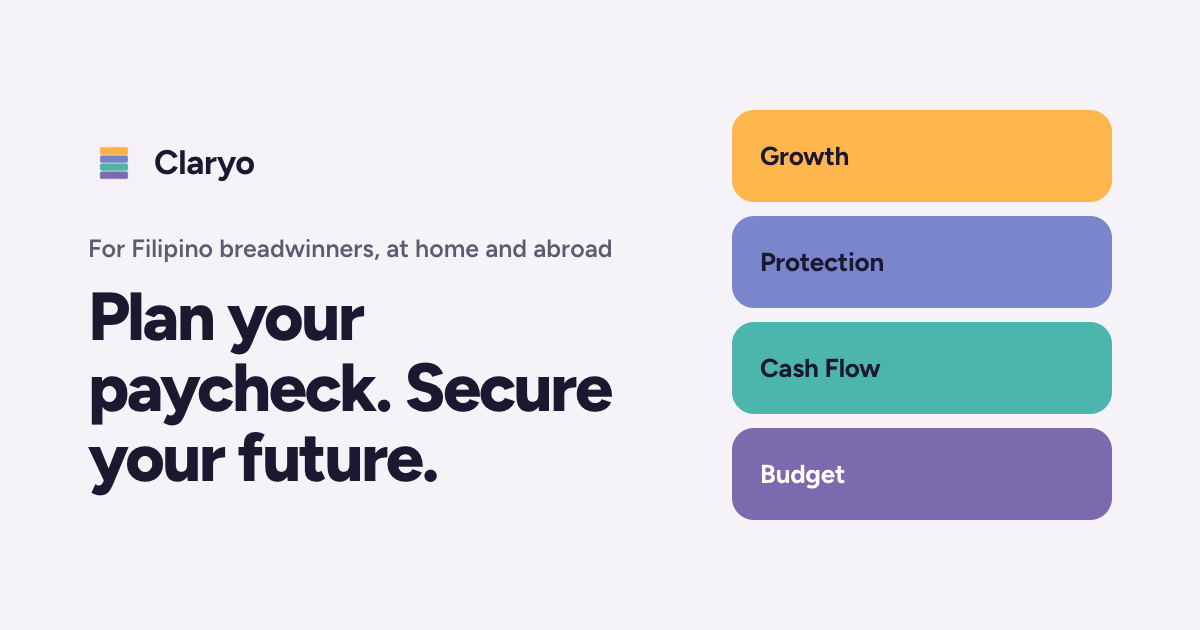
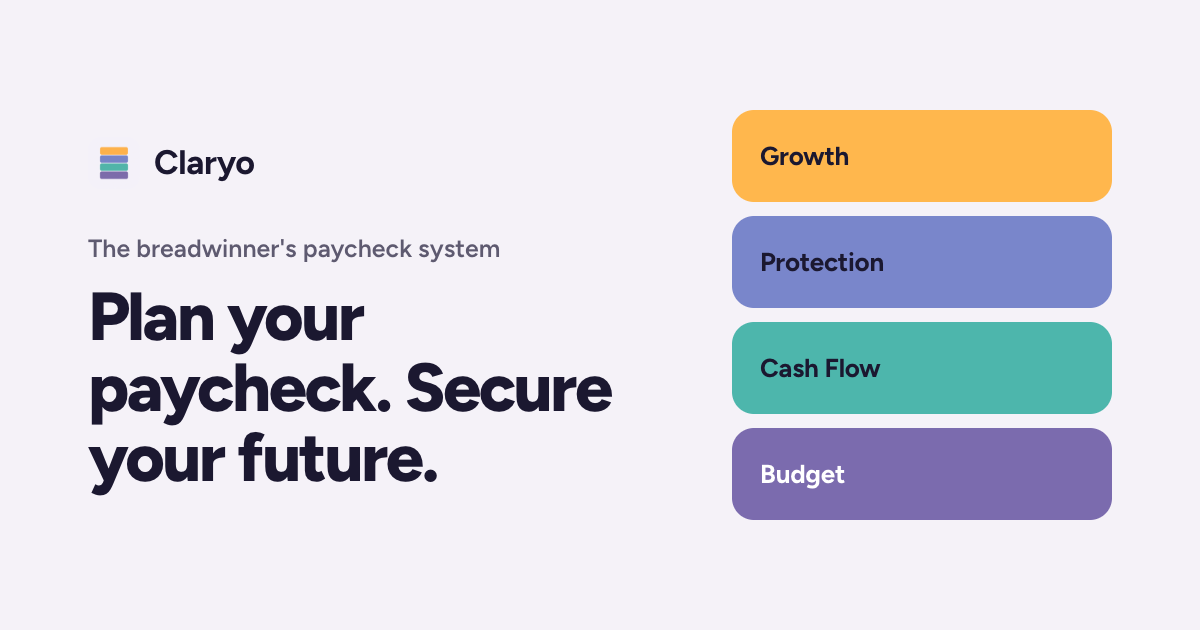
Revamp notification styles and update Open Graph description: enhance the .notify class with new layout and design elements, and modify the eyebrow text in og-image.html for improved clarity and branding.

Changed region(s): [[0.0617, 0.3619, 0.5242, 0.4222]]

diff --git a/index.html b/index.html
@@ -126,9 +126,20 @@
   }
   .lead { font-size: 1.1875rem; color: var(--muted); max-width: 36em; }
   /* The launch list: a quiet text link, never a filled button (house-rules: no filled button outside a form). */
-  .notify { margin-top: 28px; font-size: 1.0625rem; font-weight: 600; }
-  .notify a { color: var(--ink); text-decoration: underline; text-underline-offset: 4px; }
-  @media (max-width: 879px) { .notify a { display: inline-block; padding: 9px 0; margin: -9px 0; } }
+  /* The launch list (Story L.9, idea 20): a door, not a button. The card recipe at a 72px pill's radius
+     (panelCornerRadius caps at 30% of its height), a Budget-purple glyph chip (purple takes white ink),
+     what you get in muted, a caret. design-refs/good-job-18.png: a door carries its caret. */
+  .notify { display: inline-flex; align-items: center; gap: 14px; max-width: 100%; margin-top: 32px; padding: 14px 20px 14px 14px;
+            background: var(--card); border: 1px solid var(--edge); border-radius: 22px; color: var(--ink); text-decoration: none;
+            box-shadow: 0 3px 12px rgba(0, 0, 0, 0.11), 0 10px 33px rgba(0, 0, 0, 0.055); transition: box-shadow 150ms var(--out); }
+  .notify:hover { box-shadow: 0 4px 16px rgba(0, 0, 0, 0.14), 0 14px 40px rgba(0, 0, 0, 0.08); }
+  .notify:focus-visible { outline: 2px solid var(--purple); outline-offset: 3px; }
+  .notify .nchip { flex: none; width: 44px; height: 44px; border-radius: 13.6px; background: var(--purple); color: #fff; display: grid; place-items: center; }
+  .notify .nchip svg { width: 22px; height: 22px; fill: currentColor; }
+  .notify .nw { display: grid; gap: 2px; min-width: 0; }
+  .notify .nw b { font-weight: 700; font-size: 1.0625rem; line-height: 1.3; letter-spacing: -0.01em; }
+  .notify .nw span { font-size: 0.9375rem; line-height: 1.35; color: var(--muted); }
+  .notify .ncar { flex: none; width: 18px; height: 18px; margin-left: 4px; fill: var(--muted); }
   /* The stores' official badges, unmodified, at 40 tall; Google's PNG carries 41 of transparent
      padding round a 564x168 badge, so it draws at 59.5 and the padding is pulled back. */
   .stores { display: flex; flex-wrap: wrap; align-items: center; gap: 16px 22px; margin-top: 28px; }
@@ -268,6 +279,15 @@
   .side li .nm small { font-size: 0.75rem; font-weight: 400; color: var(--muted); }
   .side li b { flex: none; font-weight: 600; font-size: 0.875rem; font-variant-numeric: tabular-nums; }
   .past li .nm, .past li b { color: var(--muted); }   /* onSurfaceVariant: the past reads muted */
+  /* The beat's motion (tracker_contrast_beat.dart on the concept clock, arrival_clock.dart: 160 lead-in, 300 pitch,
+     440 span): each part a fade and a 6pt settle, the tracker and its spends, then "vs" with Claryo, then its jobs.
+     Then the tracker dims once Claryo's last job lands (founder, 2026-11-18): a ground veil, 800ms in place.
+     Without motion the veil is simply there: reduce motion shows the final state. */
+  .vs-pair .side { position: relative; }
+  .past .dimmer { position: absolute; inset: -1px; border-radius: 27px; background: var(--ground); opacity: 0.55; pointer-events: none; z-index: 1; }
+  .motion .vs-pair [data-at].in { animation-name: rise; }
+  .motion .past .dimmer[data-at].in { animation: dim 800ms cubic-bezier(0.645, 0.045, 0.355, 1) both; }   /* easeInOutCubic */
+  @keyframes dim { from { opacity: 0; } to { opacity: 0.55; } }
   .vs { justify-self: center; align-self: center; width: 32px; height: 32px; border-radius: 50%; display: grid; place-items: center; background: var(--card); border: 1px solid #CAC4D0; font-size: 0.75rem; font-weight: 700; line-height: 1; color: var(--muted); }
   @media (min-width: 560px) { .vs-pair { grid-template-columns: minmax(0, 1fr) auto minmax(0, 1fr); } }
 
@@ -913,7 +933,7 @@
 
 <svg width="0" height="0" style="position:absolute" aria-hidden="true" focusable="false">
 <!-- Phosphor glyphs (MIT), the outlines the app draws; a duotone layer at 0.2, as PhosphorIcon draws it. -->
-<symbol id="g-receipt" viewBox="0 0 1024 1024"><path d="M288 416Q288 403 297.5 393.5Q307 384 320 384H704Q717 384 726.5 393.5Q736 403 736 416Q736 429 726.5 438.5Q717 448 704 448H320Q307 448 297.5 438.5Q288 429 288 416ZM320 576H704Q717 576 726.5 566.5Q736 557 736 544Q736 531 726.5 521.5Q717 512 704 512H320Q307 512 297.5 521.5Q288 531 288 544Q288 557 297.5 566.5Q307 576 320 576ZM928 224V832Q928 845 918.5 854.5Q909 864 896 864Q892 864 888.5 863Q885 862 881 861H882L768 804L654 861Q651 862 647.5 863Q644 864 640 864Q636 864 632.5 863Q629 862 625 861H626L512 804L398 861Q395 862 391.5 863Q388 864 384 864Q380 864 376.5 863Q373 862 369 861H370L256 804L142 861Q139 862 135.5 863Q132 864 128 864Q115 864 105.5 854.5Q96 845 96 832V224Q96 197 114.5 178.5Q133 160 160 160H864Q891 160 909.5 178.5Q928 197 928 224ZM864 224H160V780L242 739Q245 738 248.5 737Q252 736 256 736Q260 736 263.5 737Q267 738 271 739H270L384 796L498 739Q501 738 504.5 737Q508 736 512 736Q516 736 519.5 737Q523 738 527 739H526L640 796L754 739Q757 738 760.5 737Q764 736 768 736Q772 736 775.5 737Q779 738 783 739H782L864 780Z"/></symbol><symbol id="g-save" viewBox="0 0 1024 1024"><path opacity=".2" d="M960 448L960 576Q960 603 941.5 621.5Q923 640 896 640L896 640L864 640L792 843Q788 852 780 858Q772 864 761 864Q761 864 761 864Q761 864 761 864L711 864Q711 864 711 864Q711 864 711 864Q700 864 692 858Q684 852 680 843L680 843L665 800L391 800L376 843Q372 852 364 858Q356 864 345 864Q345 864 345 864Q345 864 345 864L295 864Q295 864 295 864Q295 864 295 864Q284 864 276 858Q268 852 264 843L264 843L212 696Q173 654 150.5 598.5Q128 543 128 480Q128 480 128 480Q128 480 128 480L128 480Q128 414 153 355Q178 297 221.5 253.5Q265 210 323 185Q382 160 448 160L448 160L576 160Q576 160 576 160Q576 160 576 160Q625 160 670 174Q715 188 753 213.5Q791 239 821 274Q850 309 869 351L870 353Q872 359 875 366.5Q878 374 881 382L881 384L896 384Q923 384 941.5 402.5Q960 421 960 448L960 448L960 448Z"/><path d="M768 464Q768 484 754 498Q740 512 720 512Q700 512 686 498Q672 484 672 464Q672 444 686 430Q700 416 720 416L720 416Q740 416 754 430Q768 444 768 464L768 464ZM608 256L448 256Q435 256 425.5 265.5Q416 275 416 288Q416 301 425.5 310.5Q435 320 448 320L448 320L608 320Q621 320 630.5 310.5Q640 301 640 288Q640 275 630.5 265.5Q621 256 608 256L608 256ZM992 448L992 576Q992 616 964 644Q936 672 896 672L896 672L887 672L822 854Q815 872 798.5 884Q782 896 761 896Q761 896 761 896Q761 896 761 896L711 896Q711 896 711 896Q711 896 711 896Q690 896 673.5 884Q657 872 650 854L650 854L643 832L413 832L406 854Q399 872 382.5 884Q366 896 345 896Q345 896 345 896Q345 896 345 896L295 896Q295 896 295 896Q295 896 295 896Q274 896 257.5 884Q241 872 234 854L234 854L184 713Q149 674 127 625Q105 576 98 521L98 519Q83 528 73.5 543Q64 558 64 576L64 576Q64 589 54.5 598.5Q45 608 32 608Q19 608 9.5 598.5Q0 589 0 576L0 576Q0 531 27.5 497Q55 463 96 452L97 452Q103 384 132 325Q162 266 209 222Q256 178 317 153Q379 128 448 128L864 128Q877 128 886.5 137.5Q896 147 896 160Q896 173 886.5 182.5Q877 192 864 192L864 192L778 192Q818 220 848.5 257Q879 294 898 338L899 340Q900 343 901.5 346Q903 349 904 352Q941 355 966.5 382.5Q992 410 992 448Q992 448 992 448Q992 448 992 448L992 448ZM928 448Q928 435 918.5 425.5Q909 416 896 416L896 416L881 416Q881 416 881 416Q881 416 881 416Q871 416 862.5 409.5Q854 403 851 394L851 394Q837 349 810 312Q783 275 747.5 248.5Q712 222 668 207Q624 192 576 192Q576 192 576 192Q576 192 576 192L448 192Q448 192 448 192Q448 192 448 192Q388 192 336 215Q283 237 244 276Q205 315 183 368Q160 420 160 480Q160 536 180.5 586Q201 636 236 675L236 675Q238 677 239.5 679.5Q241 682 242 685L242 685L295 832L345 832L361 789Q364 780 372 774Q380 768 391 768L665 768Q676 768 684 774Q692 780 695 789L695 789L711 832L761 832L834 629Q837 620 845.5 614Q854 608 864 608L896 608Q909 608 918.5 598.5Q928 589 928 576L928 576L928 448Z"/></symbol>
+<symbol id="g-receipt" viewBox="0 0 1024 1024"><path d="M288 416Q288 403 297.5 393.5Q307 384 320 384H704Q717 384 726.5 393.5Q736 403 736 416Q736 429 726.5 438.5Q717 448 704 448H320Q307 448 297.5 438.5Q288 429 288 416ZM320 576H704Q717 576 726.5 566.5Q736 557 736 544Q736 531 726.5 521.5Q717 512 704 512H320Q307 512 297.5 521.5Q288 531 288 544Q288 557 297.5 566.5Q307 576 320 576ZM928 224V832Q928 845 918.5 854.5Q909 864 896 864Q892 864 888.5 863Q885 862 881 861H882L768 804L654 861Q651 862 647.5 863Q644 864 640 864Q636 864 632.5 863Q629 862 625 861H626L512 804L398 861Q395 862 391.5 863Q388 864 384 864Q380 864 376.5 863Q373 862 369 861H370L256 804L142 861Q139 862 135.5 863Q132 864 128 864Q115 864 105.5 854.5Q96 845 96 832V224Q96 197 114.5 178.5Q133 160 160 160H864Q891 160 909.5 178.5Q928 197 928 224ZM864 224H160V780L242 739Q245 738 248.5 737Q252 736 256 736Q260 736 263.5 737Q267 738 271 739H270L384 796L498 739Q501 738 504.5 737Q508 736 512 736Q516 736 519.5 737Q523 738 527 739H526L640 796L754 739Q757 738 760.5 737Q764 736 768 736Q772 736 775.5 737Q779 738 783 739H782L864 780Z"/></symbol><symbol id="g-envelope" viewBox="0 0 1024 1024"><path d="M896 192H128Q115 192 105.5 201.5Q96 211 96 224V768Q96 795 114.5 813.5Q133 832 160 832H864Q891 832 909.5 813.5Q928 795 928 768V224Q928 211 918.5 201.5Q909 192 896 192ZM814 256 512 533 210 256ZM864 768H160V297L490 600Q495 604 500.5 606Q506 608 512 608Q518 608 523.5 606Q529 604 534 600L864 297Z"/></symbol><symbol id="g-save" viewBox="0 0 1024 1024"><path opacity=".2" d="M960 448L960 576Q960 603 941.5 621.5Q923 640 896 640L896 640L864 640L792 843Q788 852 780 858Q772 864 761 864Q761 864 761 864Q761 864 761 864L711 864Q711 864 711 864Q711 864 711 864Q700 864 692 858Q684 852 680 843L680 843L665 800L391 800L376 843Q372 852 364 858Q356 864 345 864Q345 864 345 864Q345 864 345 864L295 864Q295 864 295 864Q295 864 295 864Q284 864 276 858Q268 852 264 843L264 843L212 696Q173 654 150.5 598.5Q128 543 128 480Q128 480 128 480Q128 480 128 480L128 480Q128 414 153 355Q178 297 221.5 253.5Q265 210 323 185Q382 160 448 160L448 160L576 160Q576 160 576 160Q576 160 576 160Q625 160 670 174Q715 188 753 213.5Q791 239 821 274Q850 309 869 351L870 353Q872 359 875 366.5Q878 374 881 382L881 384L896 384Q923 384 941.5 402.5Q960 421 960 448L960 448L960 448Z"/><path d="M768 464Q768 484 754 498Q740 512 720 512Q700 512 686 498Q672 484 672 464Q672 444 686 430Q700 416 720 416L720 416Q740 416 754 430Q768 444 768 464L768 464ZM608 256L448 256Q435 256 425.5 265.5Q416 275 416 288Q416 301 425.5 310.5Q435 320 448 320L448 320L608 320Q621 320 630.5 310.5Q640 301 640 288Q640 275 630.5 265.5Q621 256 608 256L608 256ZM992 448L992 576Q992 616 964 644Q936 672 896 672L896 672L887 672L822 854Q815 872 798.5 884Q782 896 761 896Q761 896 761 896Q761 896 761 896L711 896Q711 896 711 896Q711 896 711 896Q690 896 673.5 884Q657 872 650 854L650 854L643 832L413 832L406 854Q399 872 382.5 884Q366 896 345 896Q345 896 345 896Q345 896 345 896L295 896Q295 896 295 896Q295 896 295 896Q274 896 257.5 884Q241 872 234 854L234 854L184 713Q149 674 127 625Q105 576 98 521L98 519Q83 528 73.5 543Q64 558 64 576L64 576Q64 589 54.5 598.5Q45 608 32 608Q19 608 9.5 598.5Q0 589 0 576L0 576Q0 531 27.5 497Q55 463 96 452L97 452Q103 384 132 325Q162 266 209 222Q256 178 317 153Q379 128 448 128L864 128Q877 128 886.5 137.5Q896 147 896 160Q896 173 886.5 182.5Q877 192 864 192L864 192L778 192Q818 220 848.5 257Q879 294 898 338L899 340Q900 343 901.5 346Q903 349 904 352Q941 355 966.5 382.5Q992 410 992 448Q992 448 992 448Q992 448 992 448L992 448ZM928 448Q928 435 918.5 425.5Q909 416 896 416L896 416L881 416Q881 416 881 416Q881 416 881 416Q871 416 862.5 409.5Q854 403 851 394L851 394Q837 349 810 312Q783 275 747.5 248.5Q712 222 668 207Q624 192 576 192Q576 192 576 192Q576 192 576 192L448 192Q448 192 448 192Q448 192 448 192Q388 192 336 215Q283 237 244 276Q205 315 183 368Q160 420 160 480Q160 536 180.5 586Q201 636 236 675L236 675Q238 677 239.5 679.5Q241 682 242 685L242 685L295 832L345 832L361 789Q364 780 372 774Q380 768 391 768L665 768Q676 768 684 774Q692 780 695 789L695 789L711 832L761 832L834 629Q837 620 845.5 614Q854 608 864 608L896 608Q909 608 918.5 598.5Q928 589 928 576L928 576L928 448Z"/></symbol>
 <symbol id="g-repay" viewBox="0 0 1024 1024"><path opacity=".2" d="M928 384L928 768Q928 781 918.5 790.5Q909 800 896 800L896 800L128 800Q115 800 105.5 790.5Q96 781 96 768L96 768L96 384L928 384Z"/><path d="M896 192L128 192Q101 192 82.5 210.5Q64 229 64 256L64 256L64 768Q64 795 82.5 813.5Q101 832 128 832L128 832L896 832Q923 832 941.5 813.5Q960 795 960 768L960 768L960 256Q960 229 941.5 210.5Q923 192 896 192L896 192ZM896 256L896 352L128 352L128 256L896 256ZM896 768L128 768L128 416L896 416L896 768ZM832 672Q832 685 822.5 694.5Q813 704 800 704L800 704L672 704Q659 704 649.5 694.5Q640 685 640 672Q640 659 649.5 649.5Q659 640 672 640L672 640L800 640Q813 640 822.5 649.5Q832 659 832 672L832 672ZM576 672Q576 685 566.5 694.5Q557 704 544 704L544 704L480 704Q467 704 457.5 694.5Q448 685 448 672Q448 659 457.5 649.5Q467 640 480 640L480 640L544 640Q557 640 566.5 649.5Q576 659 576 672L576 672Z"/></symbol>
 <symbol id="g-spend" viewBox="0 0 1024 1024"><path opacity=".2" d="M896 224L896 832L768 768L640 832L512 768L384 832L256 768L128 832L128 224Q128 211 137.5 201.5Q147 192 160 192L160 192L864 192Q877 192 886.5 201.5Q896 211 896 224L896 224Z"/><path d="M288 416Q288 403 297.5 393.5Q307 384 320 384L320 384L704 384Q717 384 726.5 393.5Q736 403 736 416Q736 429 726.5 438.5Q717 448 704 448L704 448L320 448Q307 448 297.5 438.5Q288 429 288 416L288 416ZM320 576L704 576Q717 576 726.5 566.5Q736 557 736 544Q736 531 726.5 521.5Q717 512 704 512L704 512L320 512Q307 512 297.5 521.5Q288 531 288 544Q288 557 297.5 566.5Q307 576 320 576L320 576ZM928 224L928 832Q928 845 918.5 854.5Q909 864 896 864Q892 864 888.5 863Q885 862 881 861L882 861L768 804L654 861Q651 862 647.5 863Q644 864 640 864Q636 864 632.5 863Q629 862 625 861L626 861L512 804L398 861Q395 862 391.5 863Q388 864 384 864Q380 864 376.5 863Q373 862 369 861L370 861L256 804L142 861Q139 862 135.5 863Q132 864 128 864Q115 864 105.5 854.5Q96 845 96 832L96 224Q96 197 114.5 178.5Q133 160 160 160L160 160L864 160Q891 160 909.5 178.5Q928 197 928 224L928 224ZM864 224L160 224L160 780L242 739Q245 738 248.5 737Q252 736 256 736Q260 736 263.5 737Q267 738 271 739L270 739L384 796L498 739Q501 738 504.5 737Q508 736 512 736Q516 736 519.5 737Q523 738 527 739L526 739L640 796L754 739Q757 738 760.5 737Q764 736 768 736Q772 736 775.5 737Q779 738 783 739L782 739L864 780L864 224Z"/></symbol>
 <symbol id="g-earmark" viewBox="0 0 1024 1024"><path opacity=".2" d="M768 192L768 896L512 736L256 896L256 192Q256 179 265.5 169.5Q275 160 288 160L288 160L736 160Q749 160 758.5 169.5Q768 179 768 192L768 192Z"/><path d="M736 128L288 128Q261 128 242.5 146.5Q224 165 224 192L224 192L224 896Q224 909 233.5 918.5Q243 928 256 928Q261 928 265 926.5Q269 925 273 923L273 923L512 774L751 923Q755 925 759 926.5Q763 928 768 928Q781 928 790.5 918.5Q800 909 800 896L800 192Q800 165 781.5 146.5Q763 128 736 128L736 128L736 128ZM736 838L529 709Q525 707 521 705.5Q517 704 512 704Q507 704 503 705.5Q499 707 495 709L495 709L288 838L288 192L736 192L736 838Z"/></symbol>
@@ -984,10 +1004,10 @@
   <main>
     <div class="hero">
       <div>
-        <p class="eyebrow">For Filipino breadwinners, at home and abroad</p>
+        <p class="eyebrow">The breadwinner's paycheck system</p>
         <h1>Plan your paycheck. Secure your future.</h1>
         <p class="lead">Have a plan before payday arrives. Then build these pillars in order:<br /> cash reserves, protection, growth.</p>
-        <p class="notify"><a href="mailto:hello@claryoapp.com?subject=Tell%20me%20when%20Claryo%20launches">Email me when Claryo launches</a></p>
+        <a class="notify" href="mailto:hello@claryoapp.com?subject=Tell%20me%20when%20Claryo%20launches"><span class="nchip"><svg aria-hidden="true"><use href="#g-envelope"/></svg></span><span class="nw"><b>Email me when Claryo launches</b><span>One email on launch day, nothing else.</span></span><svg class="ncar" aria-hidden="true"><use href="#g-right"/></svg></a>
         <!-- Store badges hidden until both listings are in production (founder, 2026-11-15).
              Uncomment to restore; each badge becomes an <a> once its listing is live.
         <div class="stores">
@@ -1101,29 +1121,30 @@
 
     <section class="interlude" aria-labelledby="who" data-clock>
       <h2 id="who" data-at="0">Built for breadwinners</h2>
-      <p class="intro" data-at="80">You carry financial responsibility for a household, on one income or two. Claryo is for people who are ready to take hold of their financial future.</p>
+      <p class="intro" data-at="80">You carry financial responsibility for a household, on one income or two. People depend on that income, and it is limited, so none of it can be left to chance. You decide where each paycheck goes before it arrives.</p>
       <!-- The onboarding contrast (tracker_contrast_beat.dart): the tracker's card and its three spends, then "vs"
            and Claryo's card with three jobs. The PHP sample household (ghost_plan_samples.dart: income ₱50,000,
            each spend a share of it rounded to 10), scaled like every figure on the page. -->
       <div class="contrast">
         <div class="vs-pair">
           <div class="side past" data-at="160">
-            <p class="who">Spending tracker</p>
+            <i class="dimmer" data-at="3000" aria-hidden="true"></i>
+            <p class="who">Expense tracker</p>
             <p class="q">Where did it go?</p>
             <ul>
-              <li><span class="chip" style="--hue: #D1D5DB"><svg aria-hidden="true"><use href="#g-receipt"/></svg></span><span class="nm">Ride app<small>2 days ago</small></span><b>−₱250</b></li>
-              <li><span class="chip" style="--hue: #D1D5DB"><svg aria-hidden="true"><use href="#g-receipt"/></svg></span><span class="nm">Grocery store<small>5 days ago</small></span><b>−₱2,450</b></li>
-              <li><span class="chip" style="--hue: #D1D5DB"><svg aria-hidden="true"><use href="#g-receipt"/></svg></span><span class="nm">Streaming service<small>9 days ago</small></span><b>−₱550</b></li>
+              <li data-at="460"><span class="chip" style="--hue: #D1D5DB"><svg aria-hidden="true"><use href="#g-receipt"/></svg></span><span class="nm">Ride app<small>2 days ago</small></span><b>−₱250</b></li>
+              <li data-at="760"><span class="chip" style="--hue: #D1D5DB"><svg aria-hidden="true"><use href="#g-receipt"/></svg></span><span class="nm">Grocery store<small>5 days ago</small></span><b>−₱2,450</b></li>
+              <li data-at="1060"><span class="chip" style="--hue: #D1D5DB"><svg aria-hidden="true"><use href="#g-receipt"/></svg></span><span class="nm">Streaming service<small>9 days ago</small></span><b>−₱550</b></li>
             </ul>
           </div>
-          <span class="vs" data-at="240">vs</span>
-          <div class="side card" data-at="240">
+          <span class="vs" data-at="1360">vs</span>
+          <div class="side card" data-at="1360">
             <p class="who">Claryo</p>
             <p class="q">Where will it go?</p>
             <ul>
-              <li><span class="chip" style="--hue: #4DB6AC"><svg aria-hidden="true"><use href="#g-save"/></svg></span><span class="nm">Emergency Fund<small>Save</small></span><b>₱8,000</b></li>
-              <li><span class="chip" style="--hue: #E57373"><svg aria-hidden="true"><use href="#g-spend"/></svg></span><span class="nm">Rent<small>Spend</small></span><b>₱12,000</b></li>
-              <li><span class="chip" style="--hue: #E57373"><svg aria-hidden="true"><use href="#g-spend"/></svg></span><span class="nm">Groceries<small>Spend</small></span><b>₱13,000</b></li>
+              <li data-at="1660"><span class="chip" style="--hue: #4DB6AC"><svg aria-hidden="true"><use href="#g-save"/></svg></span><span class="nm">Emergency Fund<small>Save</small></span><b>₱8,000</b></li>
+              <li data-at="1960"><span class="chip" style="--hue: #E57373"><svg aria-hidden="true"><use href="#g-spend"/></svg></span><span class="nm">Rent<small>Spend</small></span><b>₱12,000</b></li>
+              <li data-at="2260"><span class="chip" style="--hue: #E57373"><svg aria-hidden="true"><use href="#g-spend"/></svg></span><span class="nm">Groceries<small>Spend</small></span><b>₱13,000</b></li>
             </ul>
           </div>
         </div>

diff --git a/_og/og-image.html b/_og/og-image.html
@@ -36,7 +36,7 @@
 <body>
   <div>
     <div class="brand"><img src="../assets/icon-512.png" alt="">Claryo</div>
-    <p class="eyebrow">For Filipino breadwinners, at home and abroad</p>
+    <p class="eyebrow">The breadwinner's paycheck system</p>
     <h1>Plan your paycheck. Secure your future.</h1>
   </div>
   <div class="blocks" aria-hidden="true">
